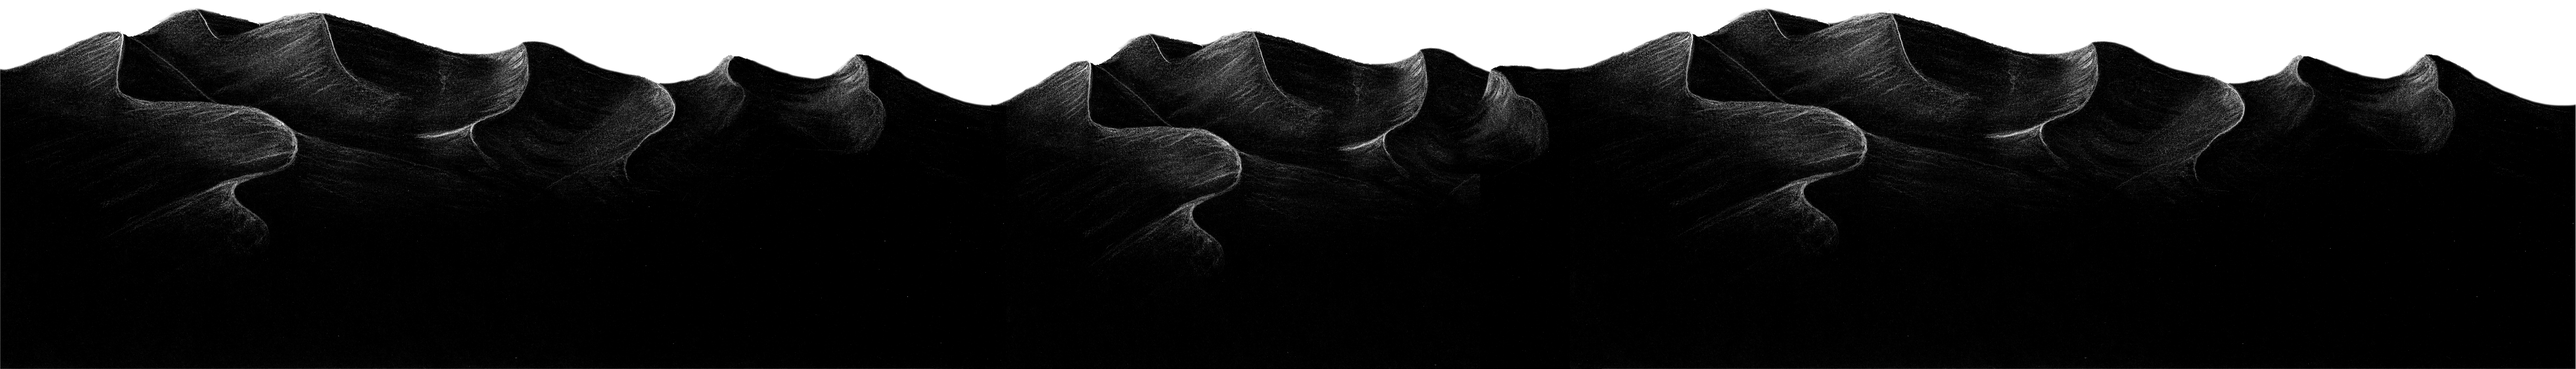
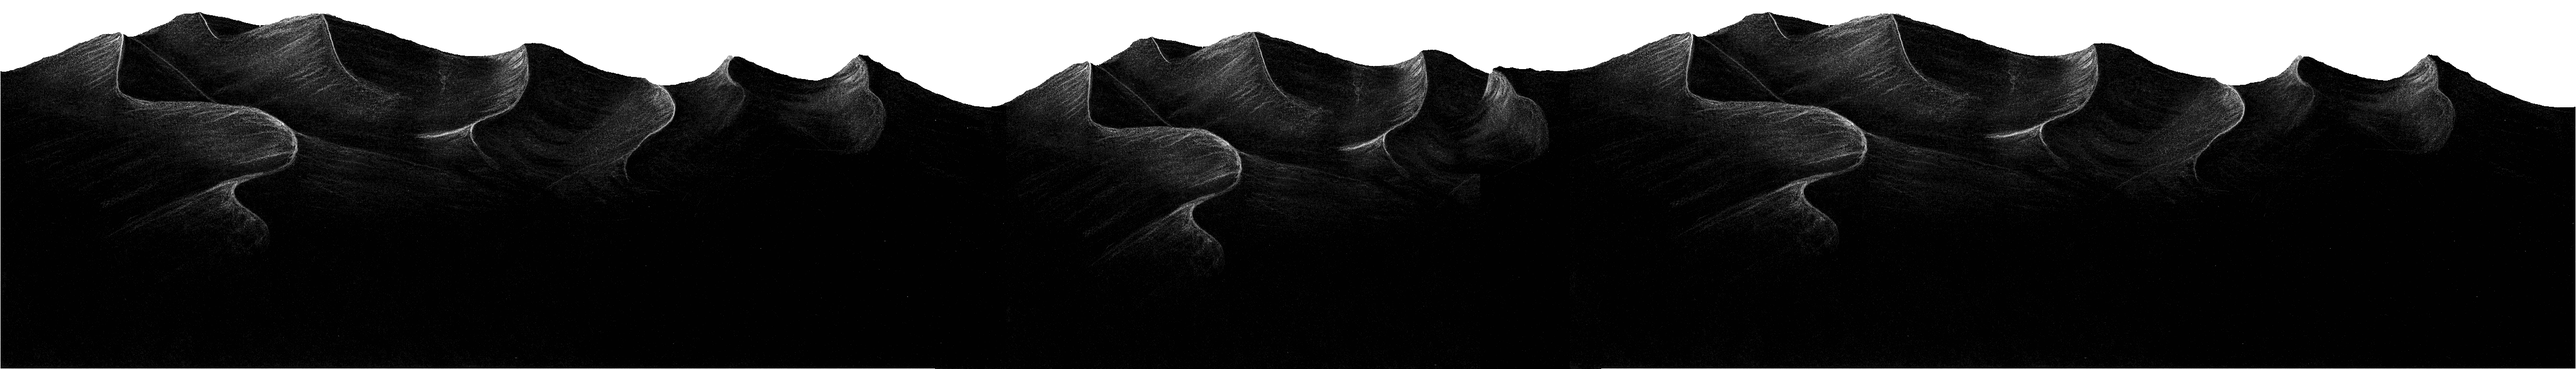
smaller images

diff --git a/animation_hills.js b/animation_hills.js
@@ -2,34 +2,29 @@
 
 var p; // shortcut to reference prototypes
 var lib={};var ss={};var img={};
-lib.ssMetadata = [
-		{name:"animation_hills_atlas_", frames: [[0,0,3358,2686],[1685,2688,1100,733],[3360,727,486,702],[3360,0,515,725],[3431,2510,256,362],[3360,1959,307,549],[3360,1431,414,526],[2787,2688,642,780],[0,2688,1683,1057],[0,3747,4021,207]]}
-];
+lib.ssMetadata = [];
 
 
 // symbols:
 
 
 
-(lib.background_stars3 = function() {
-	this.spriteSheet = ss["animation_hills_atlas_"];
-	this.gotoAndStop(0);
-}).prototype = p = new cjs.Sprite();
-
+(lib.background_stars4 = function() {
+	this.initialize(img.background_stars4);
+}).prototype = p = new cjs.Bitmap();
+p.nominalBounds = new cjs.Rectangle(0,0,1679,1343);
 
 
 (lib.black = function() {
-	this.spriteSheet = ss["animation_hills_atlas_"];
-	this.gotoAndStop(1);
-}).prototype = p = new cjs.Sprite();
-
+	this.initialize(img.black);
+}).prototype = p = new cjs.Bitmap();
+p.nominalBounds = new cjs.Rectangle(0,0,1100,733);
 
 
 (lib.head = function() {
-	this.spriteSheet = ss["animation_hills_atlas_"];
-	this.gotoAndStop(2);
-}).prototype = p = new cjs.Sprite();
-
+	this.initialize(img.head);
+}).prototype = p = new cjs.Bitmap();
+p.nominalBounds = new cjs.Rectangle(0,0,486,702);
 
 
 (lib.hills_repeating2 = function() {
@@ -39,52 +34,45 @@ p.nominalBounds = new cjs.Rectangle(0,0,4915,705);
 
 
 (lib.neck = function() {
-	this.spriteSheet = ss["animation_hills_atlas_"];
-	this.gotoAndStop(3);
-}).prototype = p = new cjs.Sprite();
-
+	this.initialize(img.neck);
+}).prototype = p = new cjs.Bitmap();
+p.nominalBounds = new cjs.Rectangle(0,0,515,725);
 
 
 (lib.right_frontleg_foot = function() {
-	this.spriteSheet = ss["animation_hills_atlas_"];
-	this.gotoAndStop(4);
-}).prototype = p = new cjs.Sprite();
-
+	this.initialize(img.right_frontleg_foot);
+}).prototype = p = new cjs.Bitmap();
+p.nominalBounds = new cjs.Rectangle(0,0,256,362);
 
 
 (lib.right_frontleg_upper = function() {
-	this.spriteSheet = ss["animation_hills_atlas_"];
-	this.gotoAndStop(5);
-}).prototype = p = new cjs.Sprite();
-
+	this.initialize(img.right_frontleg_upper);
+}).prototype = p = new cjs.Bitmap();
+p.nominalBounds = new cjs.Rectangle(0,0,307,549);
 
 
 (lib.right_hindleg_foot = function() {
-	this.spriteSheet = ss["animation_hills_atlas_"];
-	this.gotoAndStop(6);
-}).prototype = p = new cjs.Sprite();
-
+	this.initialize(img.right_hindleg_foot);
+}).prototype = p = new cjs.Bitmap();
+p.nominalBounds = new cjs.Rectangle(0,0,414,526);
 
 
 (lib.right_hindleg_upper2 = function() {
-	this.spriteSheet = ss["animation_hills_atlas_"];
-	this.gotoAndStop(7);
-}).prototype = p = new cjs.Sprite();
-
+	this.initialize(img.right_hindleg_upper2);
+}).prototype = p = new cjs.Bitmap();
+p.nominalBounds = new cjs.Rectangle(0,0,642,780);
 
 
 (lib.torso2 = function() {
-	this.spriteSheet = ss["animation_hills_atlas_"];
-	this.gotoAndStop(8);
-}).prototype = p = new cjs.Sprite();
-
+	this.initialize(img.torso2);
+}).prototype = p = new cjs.Bitmap();
+p.nominalBounds = new cjs.Rectangle(0,0,1683,1057);
 
 
 (lib.tracks = function() {
-	this.spriteSheet = ss["animation_hills_atlas_"];
-	this.gotoAndStop(9);
-}).prototype = p = new cjs.Sprite();
-// helper functions:
+	this.initialize(img.tracks);
+}).prototype = p = new cjs.Bitmap();
+p.nominalBounds = new cjs.Rectangle(0,0,4021,207);// helper functions:
 
 function mc_symbol_clone() {
 	var clone = this._cloneProps(new this.constructor(this.mode, this.startPosition, this.loop));
@@ -103,18 +91,18 @@ function getMCSymbolPrototype(symbol, nominalBounds, frameBounds) {
 	}
 
 
-(lib.Tween3 = function(mode,startPosition,loop) {
+(lib.Tween4 = function(mode,startPosition,loop) {
 	this.initialize(mode,startPosition,loop,{});
 
 	// Layer_1
-	this.instance = new lib.background_stars3();
+	this.instance = new lib.background_stars4();
 	this.instance.parent = this;
-	this.instance.setTransform(-1150,-919.8,0.685,0.685);
+	this.instance.setTransform(-839.5,-671.5);
 
 	this.timeline.addTween(cjs.Tween.get(this.instance).wait(1));
 
 }).prototype = p = new cjs.MovieClip();
-p.nominalBounds = new cjs.Rectangle(-1150,-919.8,2300,1839.8);
+p.nominalBounds = new cjs.Rectangle(-839.5,-671.5,1679,1343);
 
 
 (lib.torso_new = function(mode,startPosition,loop) {
@@ -259,18 +247,18 @@ p.nominalBounds = new cjs.Rectangle(-1150,-919.8,2300,1839.8);
 p.nominalBounds = new cjs.Rectangle(-471,-12,661.7,207);
 
 
-(lib.Sky = function(mode,startPosition,loop) {
-if (loop == null) { loop = false; }	this.initialize(mode,startPosition,loop,{});
+(lib.Sky_smaller = function(mode,startPosition,loop) {
+	this.initialize(mode,startPosition,loop,{});
 
 	// Layer_1
-	this.instance = new lib.Tween3("synched",0);
+	this.instance = new lib.Tween4("synched",0);
 	this.instance.parent = this;
-	this.instance.setTransform(1150.1,920,1.217,1.217,0,0,0,0.1,0.1);
+	this.instance.setTransform(839.5,671.5);
 
-	this.timeline.addTween(cjs.Tween.get(this.instance).to({regX:0,regY:0,rotation:90,y:919.9},4297).wait(1));
+	this.timeline.addTween(cjs.Tween.get(this.instance).to({rotation:90},4148).wait(1));
 
 }).prototype = p = new cjs.MovieClip();
-p.nominalBounds = new cjs.Rectangle(-250,-199.9,2800,2239.6);
+p.nominalBounds = new cjs.Rectangle(0,0,1679,1343);
 
 
 (lib.Hyena_walking = function(mode,startPosition,loop) {
@@ -627,18 +615,18 @@ if (loop == null) { loop = false; }	this.initialize(mode,startPosition,loop,{});
 	this.hyena_mc = new lib.hyena_mc();
 	this.hyena_mc.name = "hyena_mc";
 	this.hyena_mc.parent = this;
-	this.hyena_mc.setTransform(370,1660,1,1,0,0,0,187.8,129.6);
+	this.hyena_mc.setTransform(370.1,1660,1,1,0,0,0,187.9,129.6);
 
 	this.timeline.addTween(cjs.Tween.get(this.hyena_mc).wait(1));
 
 	// Floor
 	this.instance = new lib.black();
 	this.instance.parent = this;
-	this.instance.setTransform(1079,1630);
+	this.instance.setTransform(1078,1629);
 
 	this.instance_1 = new lib.black();
 	this.instance_1.parent = this;
-	this.instance_1.setTransform(-18,1630);
+	this.instance_1.setTransform(-19,1629);
 
 	this.timeline.addTween(cjs.Tween.get({}).to({state:[{t:this.instance_1},{t:this.instance}]}).wait(1));
 
@@ -646,19 +634,19 @@ if (loop == null) { loop = false; }	this.initialize(mode,startPosition,loop,{});
 	this.hills_mc = new lib.hills();
 	this.hills_mc.name = "hills_mc";
 	this.hills_mc.parent = this;
-	this.hills_mc.setTransform(1730.1,1474,0.704,0.496,0,0,0,2457.6,352.5);
+	this.hills_mc.setTransform(1730.1,1474,0.704,0.496,0,0,0,2457.8,352.6);
 
 	this.timeline.addTween(cjs.Tween.get(this.hills_mc).wait(1));
 
 	// Sky
-	this.instance_2 = new lib.Sky();
+	this.instance_2 = new lib.Sky_smaller();
 	this.instance_2.parent = this;
-	this.instance_2.setTransform(1029,769.9,1,1,0,0,0,1150,919.9);
+	this.instance_2.setTransform(954.4,515.7,1.875,1.875,0,0,0,839.5,671.5);
 
 	this.timeline.addTween(cjs.Tween.get(this.instance_2).wait(1));
 
 }).prototype = p = new cjs.MovieClip();
-p.nominalBounds = new cjs.Rectangle(466.9,610.1,4249.3,2713);
+p.nominalBounds = new cjs.Rectangle(340.4,216.6,4375.7,3105.4);
 // library properties:
 lib.properties = {
 	id: 'A3DCCBA8323442ADBBB3502B030CB3E6',
@@ -668,8 +656,17 @@ lib.properties = {
 	color: "#000000",
 	opacity: 1.00,
 	manifest: [
+		{src:"images/background_stars4.jpg", id:"background_stars4"},
+		{src:"images/black.png", id:"black"},
+		{src:"images/head.png", id:"head"},
 		{src:"images/hills_repeating2.png", id:"hills_repeating2"},
-		{src:"images/animation_hills_atlas_.png", id:"animation_hills_atlas_"}
+		{src:"images/neck.png", id:"neck"},
+		{src:"images/right_frontleg_foot.png", id:"right_frontleg_foot"},
+		{src:"images/right_frontleg_upper.png", id:"right_frontleg_upper"},
+		{src:"images/right_hindleg_foot.png", id:"right_hindleg_foot"},
+		{src:"images/right_hindleg_upper2.png", id:"right_hindleg_upper2"},
+		{src:"images/torso2.png", id:"torso2"},
+		{src:"images/tracks.png", id:"tracks"}
 	],
 	preloads: []
 };

diff --git a/index.html b/index.html
@@ -98,7 +98,6 @@
 			background-color: rgba(0, 0, 0, 0.7);
 			margin-top: 300px;
 			margin-left: 40%;
-			margin-bottom: 300px;
 			padding: 20px;
 			width: 500px;
 			z-index: 100;
@@ -117,7 +116,7 @@
 			margin-left: 10%;
 			margin-top: 100px;
 
-			font-size: 25pt;
+			font-size: 33pt;
 			position: absolute;
 			height: 160px;
 			z-index: 101;
